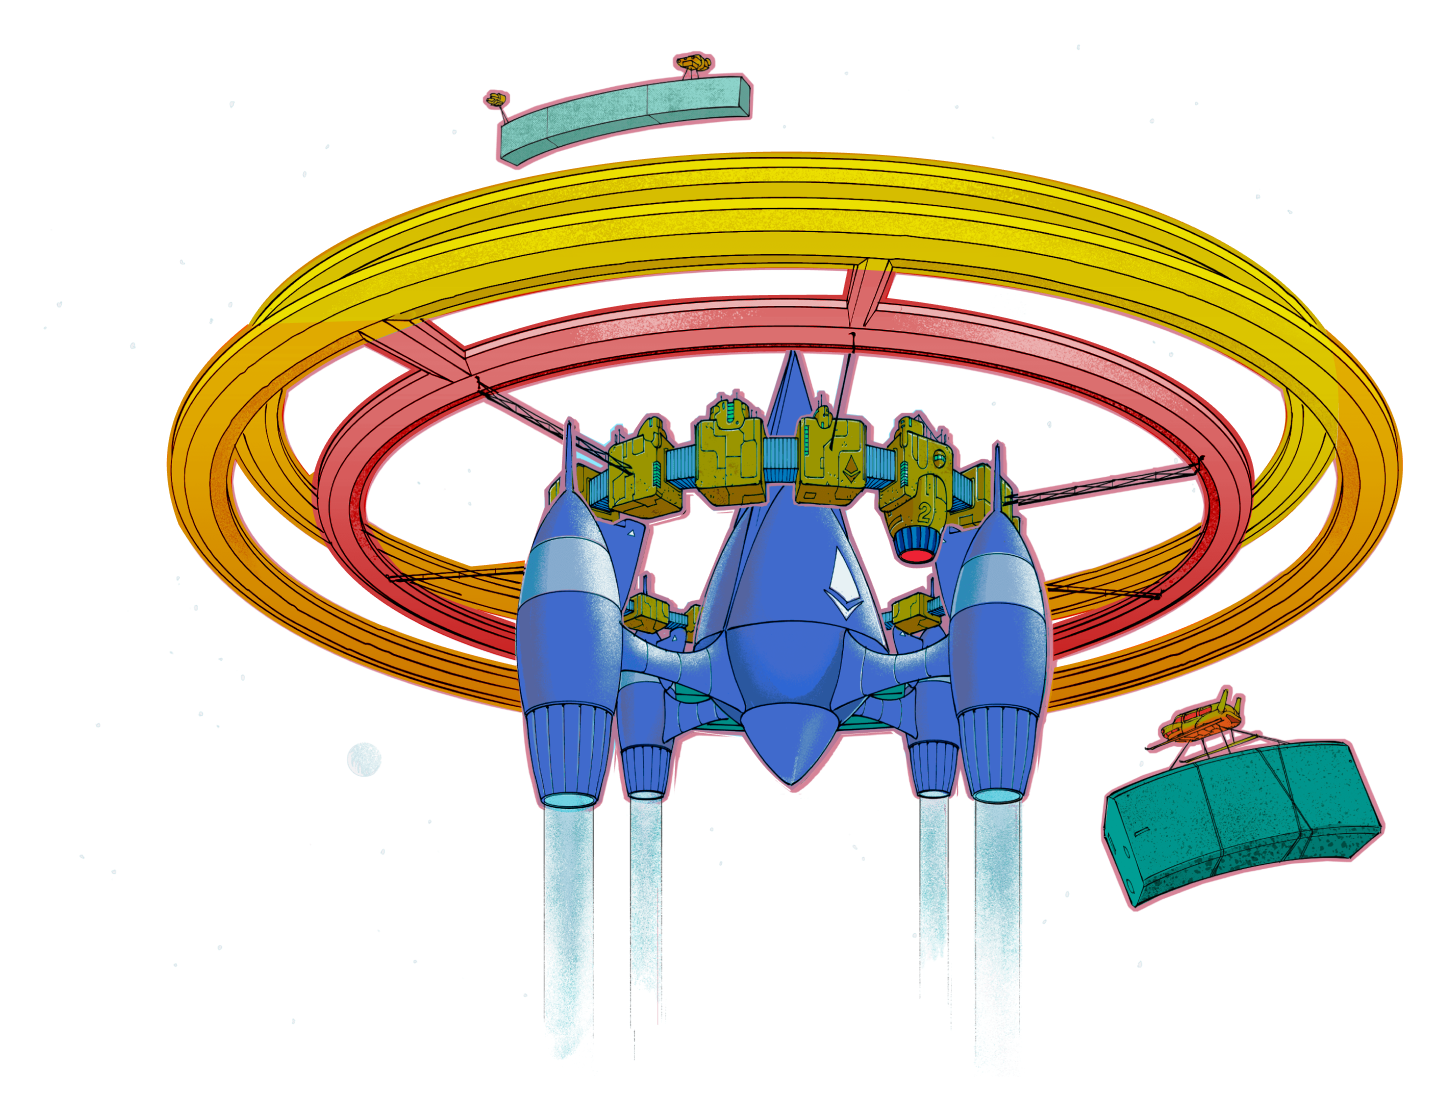
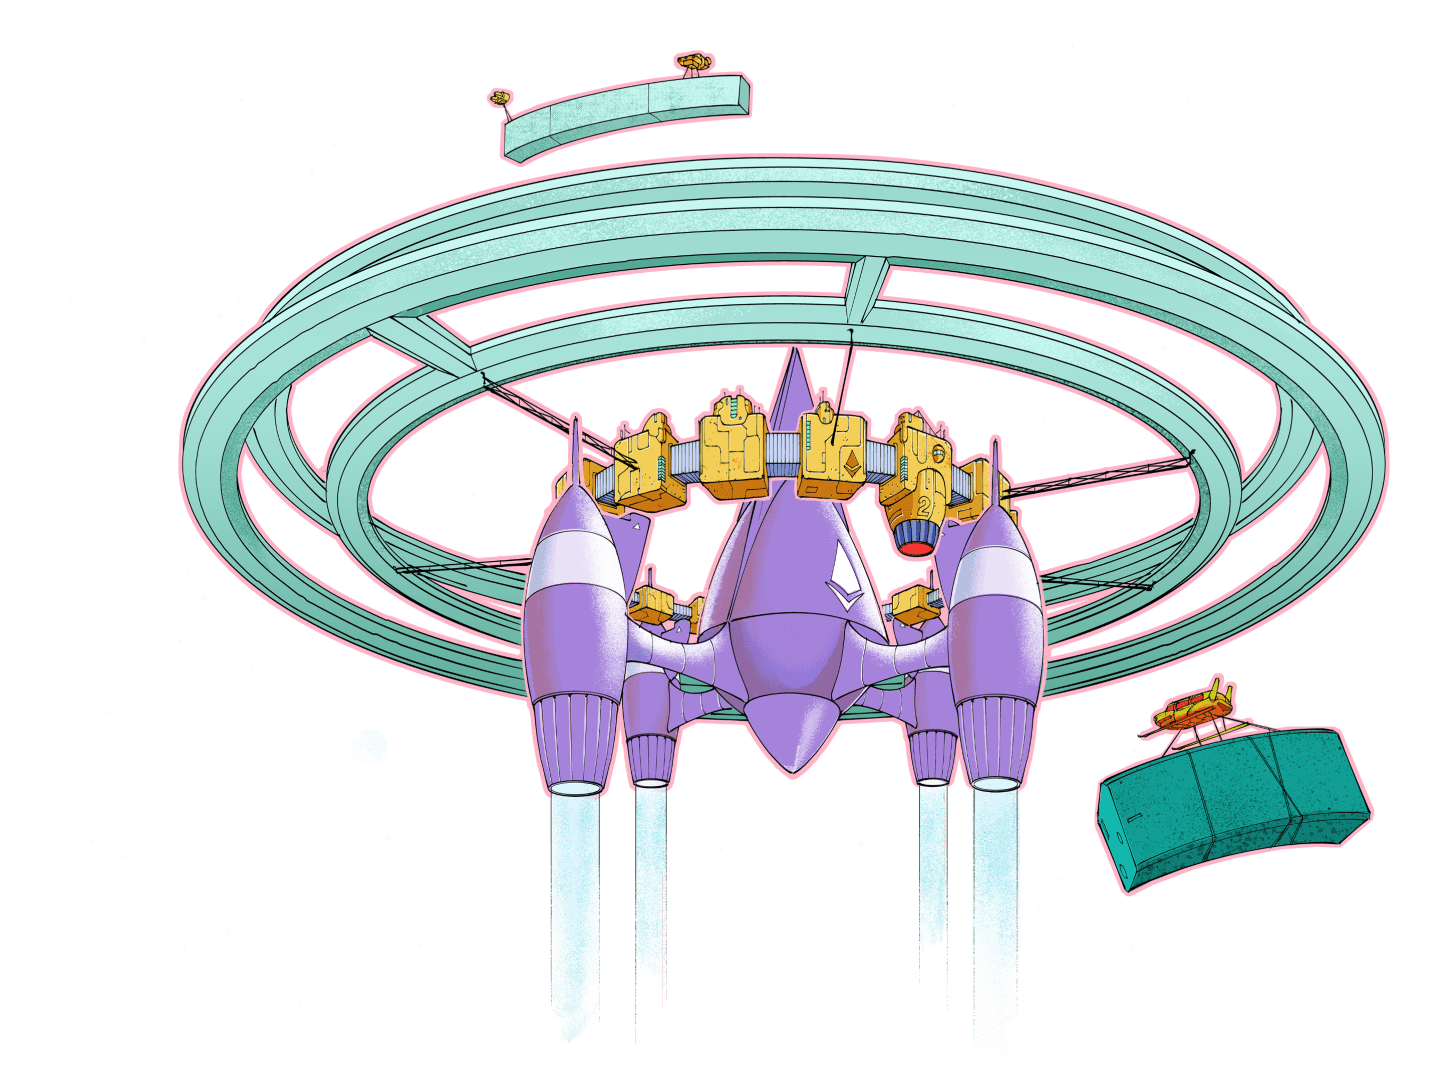
ethstaker specific theme and content

diff --git a/src/views/AboutRecipients.vue b/src/views/AboutRecipients.vue
@@ -82,12 +82,54 @@
       </li>
     </ol>
 
+    <h3>Complete KYC</h3>
+    <p>
+      You'll submit a contact email address as part of your project's
+      application. The email address will not be stored on-chain (with the rest
+      of the application data) but it will be sent to the registry admin (the
+      clr.fund team) and the Ethereum Foundation for the purposes of completing
+      your KYC. The Ethereum Foundation will use this email address to contact
+      you and verify information about your project. The registry admin may
+      reject projects that don't meet the round criteria or pass KYC/AML
+      requirements.
+    </p>
     <p>
       {{ $t('recipients.register.p4') }}
     </p>
     <p>
       {{ $t('recipients.register.p5', { depositToken: chain.currency }) }}
     </p>
+    <h4>Required documents</h4>
+    <p style="text-decoration: underline">For individuals</p>
+    <ol>
+      <li>Scanned copy of passport</li>
+      <li>
+        Proof of address from within the last 3 months, such as bank statement,
+        utility bill or telecom subscription
+      </li>
+    </ol>
+    <p style="text-decoration: underline">For organizations</p>
+    <ol>
+      <li>Certificate of Incorporation</li>
+      <li>
+        Proof of address from within the last 3 months, such as bank statement,
+        utility bill or telecom subscription
+      </li>
+      <li>
+        Shareholders' and Directors' registers / Members' register (for
+        organization without shareholdings)
+      </li>
+      <li>
+        For each director, officer and individual shareholder (more than 10%),
+        please provide (i) scan copy of passport, and (ii) copy of proof of
+        address
+      </li>
+      <li>
+        If the shareholder is an organization and holds more than 10%, please
+        provide 1 through 4
+      </li>
+    </ol>
+
     <h2>{{ $t('recipients.claim.h2') }}</h2>
     <p>
       {{ $t('recipients.claim.p') }}

diff --git a/src/views/Landing.vue b/src/views/Landing.vue
@@ -12,14 +12,6 @@
             <div id="subtitle" class="subtitle">
               {{ $t('landing.hero.subtitle') }}
             </div>
-
-            <div class="organizers-wrapper">
-              <image-responsive
-                title="organizers"
-                class="organizers"
-                alt="organizers of QF round."
-              />
-            </div>
             <div class="btn-group">
               <links to="/projects" class="btn-action">{{
                 $t('landing.view_results')
@@ -299,7 +291,7 @@ ol li::before {
 #hero {
   position: relative;
   overflow: hidden;
-  background: var(--bg-gradient);
+  background: $clr-pink-dark-gradient;
   padding: 0;
   min-height: 639px; /* This is the height when adding in the callout */
   display: flex;
@@ -312,6 +304,7 @@ ol li::before {
   .image-wrapper img {
     position: absolute;
     padding-top: 2rem;
+    mix-blend-mode: exclusion;
     width: 70%;
     max-width: 880px;
     height: auto;
@@ -328,7 +321,7 @@ ol li::before {
   .hero-content {
     padding: 2rem;
     position: relative;
-    max-width: 60ch;
+    max-width: 40%;
     min-height: 400px;
     display: flex;
     flex-direction: column;
@@ -345,26 +338,10 @@ ol li::before {
         89.75%
       );
     }
-
-    .organizers-wrapper {
-      padding-top: 2rem;
-      padding-bottom: 4rem;
-      grid-area: image;
-      position: relative;
-      display: flex;
-      max-width: 85%;
-
-      align-items: left;
-      .organizers {
-        position: relative;
-        margin: 0;
-        max-width: 100%;
-      }
-    }
   }
 
   #moon {
-    mix-blend-mode: color-dodge;
+    mix-blend-mode: exclusion;
     position: absolute;
     top: 0;
     right: 0;

diff --git a/src/styles/_vars-dark.scss b/src/styles/_vars-dark.scss
@@ -6,9 +6,9 @@
   // workaround for using css variables with sass mixins
   --text-color-rgb: 255, 255, 255;
 
-  --brand-primary: #5d69ff;
-  --brand-secondary: #5d69ff;
-  --brand-tertiary: #edbc00;
+  --brand-primary: #211e2b;
+  --brand-secondary: #211e2b;
+  --brand-tertiary: #211e2b;
 
   --error-color: #bd6b5e;
   --warning-color: rgb(253, 254, 106);
@@ -29,8 +29,8 @@
   --img-filter: none;
 
   --bg-primary-color: #191623;
-  --bg-secondary-color: #191623;
-  --bg-light-color: #5d69ff;
+  --bg-secondary-color: #211e2b;
+  --bg-light-color: #2c2938;
 
   // alternative background colors for light and dark modes
   --bg-secondary-highlight: #211e2b;
@@ -39,7 +39,10 @@
   --bg-light-accent: #2c2938;
 
   --bg-transparent: rgba(25, 22, 35, 0.902);
-  --bg-gradient: #050022;
+  --bg-gradient: linear-gradient(
+    109.01deg,
+    #9789c4 6.45%,
+    #c72ab9 99.55%);
   --bg-gradient-hero: linear-gradient(
     286.78deg,
     rgba(173, 131, 218, 0) -32.78%,
@@ -64,9 +67,9 @@
   );
   --bg-circle: #2a2736;
 
-  --button-secondary-color: #5d69ff;
+  --button-secondary-color: #16c8b5;
   --button-secondary-bg: none;
-  --button-secondary-border: #5d69ff;
+  --button-secondary-border: #16c8b5;
   --button-action: #5d69ff;
 
   --explorer-border: var(--text-color);

diff --git a/src/components/NavBar.vue b/src/components/NavBar.vue
@@ -1,7 +1,7 @@
 <template>
   <nav id="nav-bar">
     <links to="/">
-      <img class="clr-logo" :alt="operator" src="@/assets/ethColombia.svg" />
+      <img class="clr-logo" :alt="operator" src="@/assets/main-logo.svg" />
     </links>
     <div class="btn-row">
       <div class="help-dropdown" v-click-outside="closeHelpDropdown">
@@ -100,7 +100,7 @@ function toggleHelpDropdown(): void {
   height: 64px;
   justify-content: space-between;
   align-items: center;
-  background: $clr-black;
+  background: var(--brand-secondary);
   box-shadow: $box-shadow-nav-bar;
   @media (max-width: $breakpoint-m) {
     padding: 0 1rem;
@@ -125,6 +125,7 @@ function toggleHelpDropdown(): void {
       top: 2rem;
       right: 4px;
       background: var(--bg-secondary-color);
+      border: 1px solid rgba(115, 117, 166, 0.3);
       border-radius: 0.5rem;
       min-width: 160px;
       box-shadow: 0px 8px 16px 0px rgba(0, 0, 0, 0.2);
@@ -168,7 +169,7 @@ function toggleHelpDropdown(): void {
 
   .clr-logo {
     margin: 0;
-    height: 3.25rem;
+    height: 2.25rem;
     vertical-align: middle;
   }
 

diff --git a/src/styles/_theme.scss b/src/styles/_theme.scss
@@ -6,7 +6,7 @@
 }
 
 .btn-action {
-  @include button(white, var(--button-action), none);
+  @include button(white, $clr-pink-light-gradient, none);
 }
 
 .btn-secondary {
@@ -18,11 +18,7 @@
 }
 
 .btn-info {
-  @include button(
-    var(--text-color),
-    var(--bg-primary-color),
-    2px solid var(--loader-color)
-  );
+  @include button(white, #19162380, 2px solid white);
 }
 
 .btn-warning {

diff --git a/src/styles/_vars.scss b/src/styles/_vars.scss
@@ -43,3 +43,11 @@ $breakpoint-s: 414px;
 $breakpoint-m: 800px;
 $breakpoint-l: 1200px;
 $breakpoint-xl: 1500px;
+
+$clr-pink-light-gradient: linear-gradient(
+  109.01deg,
+  #9789c4 6.45%,
+  #c72ab9 99.55%
+);
+$clr-pink-dark-gradient: linear-gradient(315deg, #c72ab9 0%, #252a77 100%);
+

diff --git a/src/components/RoundInformation.vue b/src/components/RoundInformation.vue
@@ -229,7 +229,7 @@ function toggleNotice() {
 
 .image-wrapper {
   border-radius: 8px;
-  background: var(--bg-gradient);
+  background: $clr-pink-dark-gradient;
   height: 160px;
   width: 100%;
   display: flex;

diff --git a/src/styles/_mixins.scss b/src/styles/_mixins.scss
@@ -11,7 +11,7 @@
   display: block;
   box-sizing: border-box;
   padding: 0.5rem 1.5rem;
-  border-radius: 4px;
+  border-radius: 2rem;
   font-size: 1rem;
   font-weight: 600;
   line-height: 150%;
